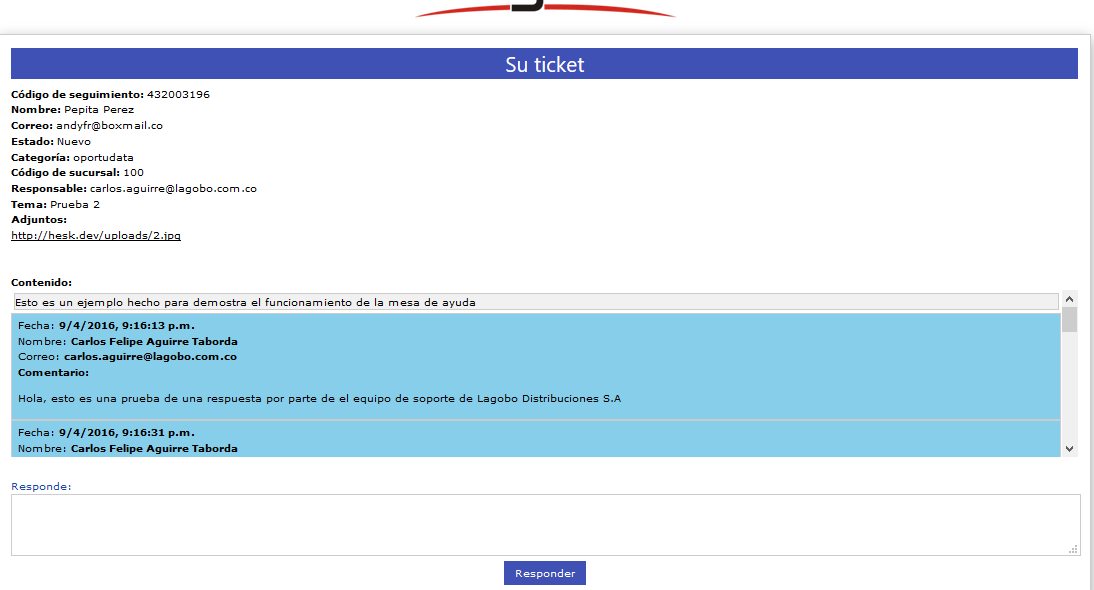
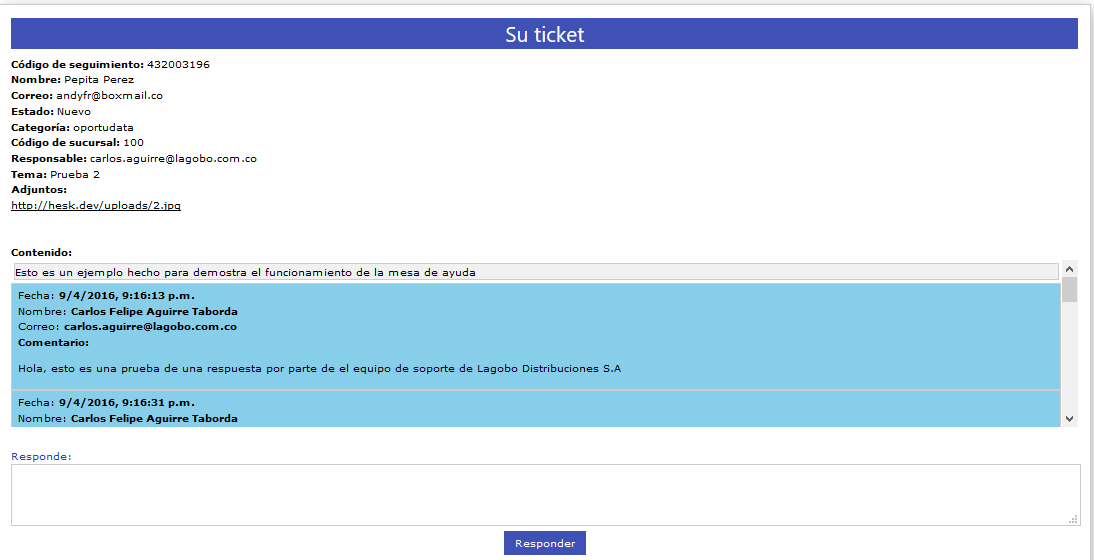
Arreglada la ortografìa de algunas vistas, arreglado un bug en el layout del header, dejando funcionar la paginacion

Changed region(s): [[0.0, 0.0, 1.0, 0.85], [0.4662, 0.9411, 0.5283, 1.0], [0.9634, 0.9107, 0.9945, 0.9411]]

diff --git a/assets/css/w3.css b/assets/css/w3.css
@@ -125,7 +125,7 @@ img.w3-image,.w3-image img{max-width:100%;height:auto}
 .w3-sidenav a:hover{background-color:#ccc}
 .w3-sidenav a,.w3-dropnav a{display:block}
 .w3-sidenav .w3-dropdown-hover:hover,.w3-sidenav .w3-dropdown-hover:first-child,.w3-sidenav .w3-dropdown-click:hover{background-color:#ccc;color:#000}
-.w3-sidenav .w3-dropdown-hover,.w3-sidenav .w3-dropdown-click {width:100%}.w3-sidenav .w3-dropdown-hover .w3-dropdown-content,.w3-sidenav .w3-dropdown-click .w3-dropdown-content{min-width:100%}
+.w3-sidenav .w3-dropdown-hover,.w3-sidenav .w3-dropdown-click {width:100%}.w3-sidenav .w3-dropdown-hover .w3-dropdown-content,.w3-sidenav .w3-dropdown-click .w3-dropdown-content{min-width:80%}
 .w3-main,#main{transition:margin-left .4s}
 .w3-dropnav{background-color:#fff}
 .w3-dropnav a:hover{text-decoration:underline !important}

diff --git a/application/controllers/ticket.php b/application/controllers/ticket.php
@@ -247,22 +247,50 @@ class Ticket extends CI_Controller
       $this->load->view('layouts/footer');
    }
 
-   public function verTickets(){
+   public function verTickets($inicio=null){
       $_correos=$this->Usuario_model->obtenerTodosCorreos();
 
       if(!empty($this->input->post('fecha')) && $this->Ticket_model->verTickets($this->input->post())){
-         $_respuesta = $this->Ticket_model->verTickets($this->input->post());
-         $config['base_url'] = site_url('ticket/verTickets');
+         $_respuesta = $this->Ticket_model->verTickets($this->input->post(), $inicio);
+         $config['base_url'] = site_url('ticket/verTickets/');
          $config['total_rows'] = $_respuesta[1];
          $config['per_page'] = 10;
+         $config["uri_segment"] = 3;
+         $config['first_tag_open'] = '<div class="w3-btn w3-indigo">';
+         $config['first_tag_close'] = '</div>';
+         $config['last_tag_open'] = '<div class="w3-btn w3-indigo">';
+         $config['last_tag_close'] = '</div>';
+         $config['prev_link'] = '<i class="material-icons">&#xE045;</i>';
+         $config['next_link'] = '<i class="material-icons">&#xE044;</i>';
+         $config['cur_tag_open'] = '<div class="w3-btn w3-white">';
+         $config['cur_tag_close'] = '</div>';
+         $config['num_tag_open'] = '<div class="w3-btn w3-blue">';
+         $config['num_tag_close'] = '</div>';
+         $config['first_link'] = 'Primero';
+         $config['last_link'] = 'Ùltimo';
+         $config['num_links'] = 3;
          $this->pagination->initialize($config);
          $this->load->view('ticket/verticket', ["resultado"=>$_respuesta[0], "correos"=>$_correos]);
       }
       else{
-         $_respuesta = $this->Ticket_model->verTickets(["fecha"=>"DESC"]);
+         $_respuesta = $this->Ticket_model->verTickets(["fecha"=>"DESC"], $inicio);
          $config['base_url'] = site_url('ticket/verTickets');
          $config['total_rows'] = $_respuesta[1];
          $config['per_page'] = 10;
+         $config['first_tag_open'] = '<div class="w3-btn w3-indigo">';
+         $config['first_tag_close'] = '</div>';
+         $config['last_tag_open'] = '<div class="w3-btn w3-indigo">';
+         $config['last_tag_close'] = '</div>';
+         $config['prev_link'] = '<i class="material-icons">&#xE045;</i>';
+         $config['next_link'] = '<i class="material-icons">&#xE044;</i>';
+         $config['cur_tag_open'] = '<div class="w3-btn w3-white">';
+         $config['cur_tag_close'] = '</div>';
+         $config['num_tag_open'] = '<div class="w3-btn w3-blue">';
+         $config['num_tag_close'] = '</div>';
+         $config['first_link'] = 'Primero';
+         $config['last_link'] = 'Ùltimo';
+         $config["uri_segment"] = 3;
+         $config['num_links'] = 3;
          $this->pagination->initialize($config);
          $this->load->view('ticket/verticket', ["resultado"=>$_respuesta[0], "correos"=>$_correos]);
       }

diff --git a/application/views/defecto/index.php b/application/views/defecto/index.php
@@ -16,7 +16,7 @@
     La mesa de ayuda pretende facilitar el manejo y otorgar una herramienta tanto a los empleados de las sucursales a nivel
     nacional para exponer sus incovenientes y problemas asimismo a las personas encargadas de darle solución a esos inconvenientes
     manteniendo un registro completo de todo el proceso de resolución de problemas aumentando así la calidad del servicio y obligando
-    a la respuesta más rápida ademas de la mejor posible ya que esta estará sujeta a posterior revisión y verificación por parte
+    a la respuesta más rápida ademàs de la mejor posible ya que esta estará sujeta a posterior revisión y verificación por parte
     de quien corresponda.
   </p><br/><br/><br/>
   <article id="crear" class="w3-card-2 w3-padding w3-leftbar" style="width: 90%; margin: auto; border-color: #00bcd4 !important">
@@ -29,7 +29,7 @@
         </div>
       </li>
       <li>
-        Se despliega un menú de opciones en donde se elige la opción que se desea, en este caso la opció de crear un ticket.
+        Se despliega un menú de opciones en donde se elige la opción que se desea, en este caso la opción de crear un ticket.
         <div class="w3-center">
           <img src="<?php echo base_url('assets/img/tuto-2.png'); ?>"  />
         </div>
@@ -45,7 +45,7 @@
       </li>
       <li>
         Si se ha diligenciado correctamente el formulario y no hay ningún problema debería aparecer un mensaje como
-        el siguiente indicando que el ticket ha sido generado satisfactoriamente ademas se mostrará un número con el cual
+        el siguiente indicando que el ticket ha sido generado satisfactoriamente ademàs se mostrará un número con el cual
         se podrá hacer el seguimiento al ticket o solicitud.
         <div class="w3-center">
           <img src="<?php echo base_url('assets/img/tuto-4.png'); ?>"  />
@@ -53,7 +53,7 @@
       </li>
 
       <li>
-        Tambien la plataforma enviará un correo electrónico mostrando el código del ticket y el link donde podra ver el estado en
+        También la plataforma enviará un correo electrónico mostrando el código del ticket y el link donde podra ver el estado en
         que se encuentra.
         <div class="w3-center">
           <img src="<?php echo base_url('assets/img/tuto-5.png'); ?>"  />

diff --git a/application/views/layouts/header.php b/application/views/layouts/header.php
@@ -45,7 +45,7 @@
       <a href='<?php echo site_url("usuario/index"); ?>'>Ingresar</a>
       <div class="w3-dropdown-hover">
       <a href="#">Equipo <i class="material-icons">&#xE313;</i></a>
-      <div class="w3-dropdown-content w3-indigo w3-border w3-card-4">
+      <div class="w3-dropdown-content w3-indigo w3-border w3-card-4" style="width:80% !important">
           <a href="<?php echo site_url('equipo/index'); ?>" class="w3-hover-blue">Crear Equipo</a>
           <a href="<?php echo site_url('equipo/modificar'); ?>" class="w3-hover-blue">Actualizar</a>
           <a href="<?php echo site_url('equipo/addEntrada'); ?>" class="w3-hover-blue">Agregar Entrada</a>
@@ -56,7 +56,7 @@
       <?php if($this->session->userdata('rol')=="adm"){ ?>
       <div class="w3-dropdown-hover" >
       <a href="#">Usuarios <i class="material-icons">&#xE313;</i></a>
-      <div class="w3-dropdown-content w3-indigo w3-border w3-card-4">
+      <div class="w3-dropdown-content w3-indigo w3-border w3-card-4" style="width:80% !important">
           <a href="<?php echo site_url('usuario/accion/habilitar'); ?>" class="w3-hover-blue">Habilitar Usuarios</a>
           <a href="<?php echo site_url('usuario/accion/eliminar'); ?>" class="w3-hover-blue" >Eliminar Usuarios</a>
       </div>

diff --git a/application/models/ticket_model.php b/application/models/ticket_model.php
@@ -62,11 +62,12 @@ class Ticket_model extends CI_Model
       }
    }
 
-   public function verTickets($data){
+   public function verTickets($data, $limInferior=0){
      if($this->session->userdata('rol')=="con"){
         $_contador="email_responsable='" . $this->session->userdata('correo') . "'";
      }
 
+     $this->db->limit(10,$limInferior);
 
       if(!empty($data['estado'])){
          $_respuesta=$this->db->query("SELECT ticket.id_ticket,ticket.nombre,ticket.correo,ticket.estado,ticket.categoria,ticket.id_sucursal,ticket.email_responsable,observacion.fecha,observacion.tema,observacion.id_observacion,observacion.mensaje,observacion.fotografias

diff --git a/application/views/ticket/verticket.php b/application/views/ticket/verticket.php
@@ -103,7 +103,9 @@ for($i=0; $i<count($resultado['id_ticket']); $i++){
    echo "<div style='height:1em'></div>";
 }
 
+echo "<div class='w3-center'>";
 echo $this->pagination->create_links();
+echo "</div>";
 $this->load->view('layouts/footer');
 ?>
 
